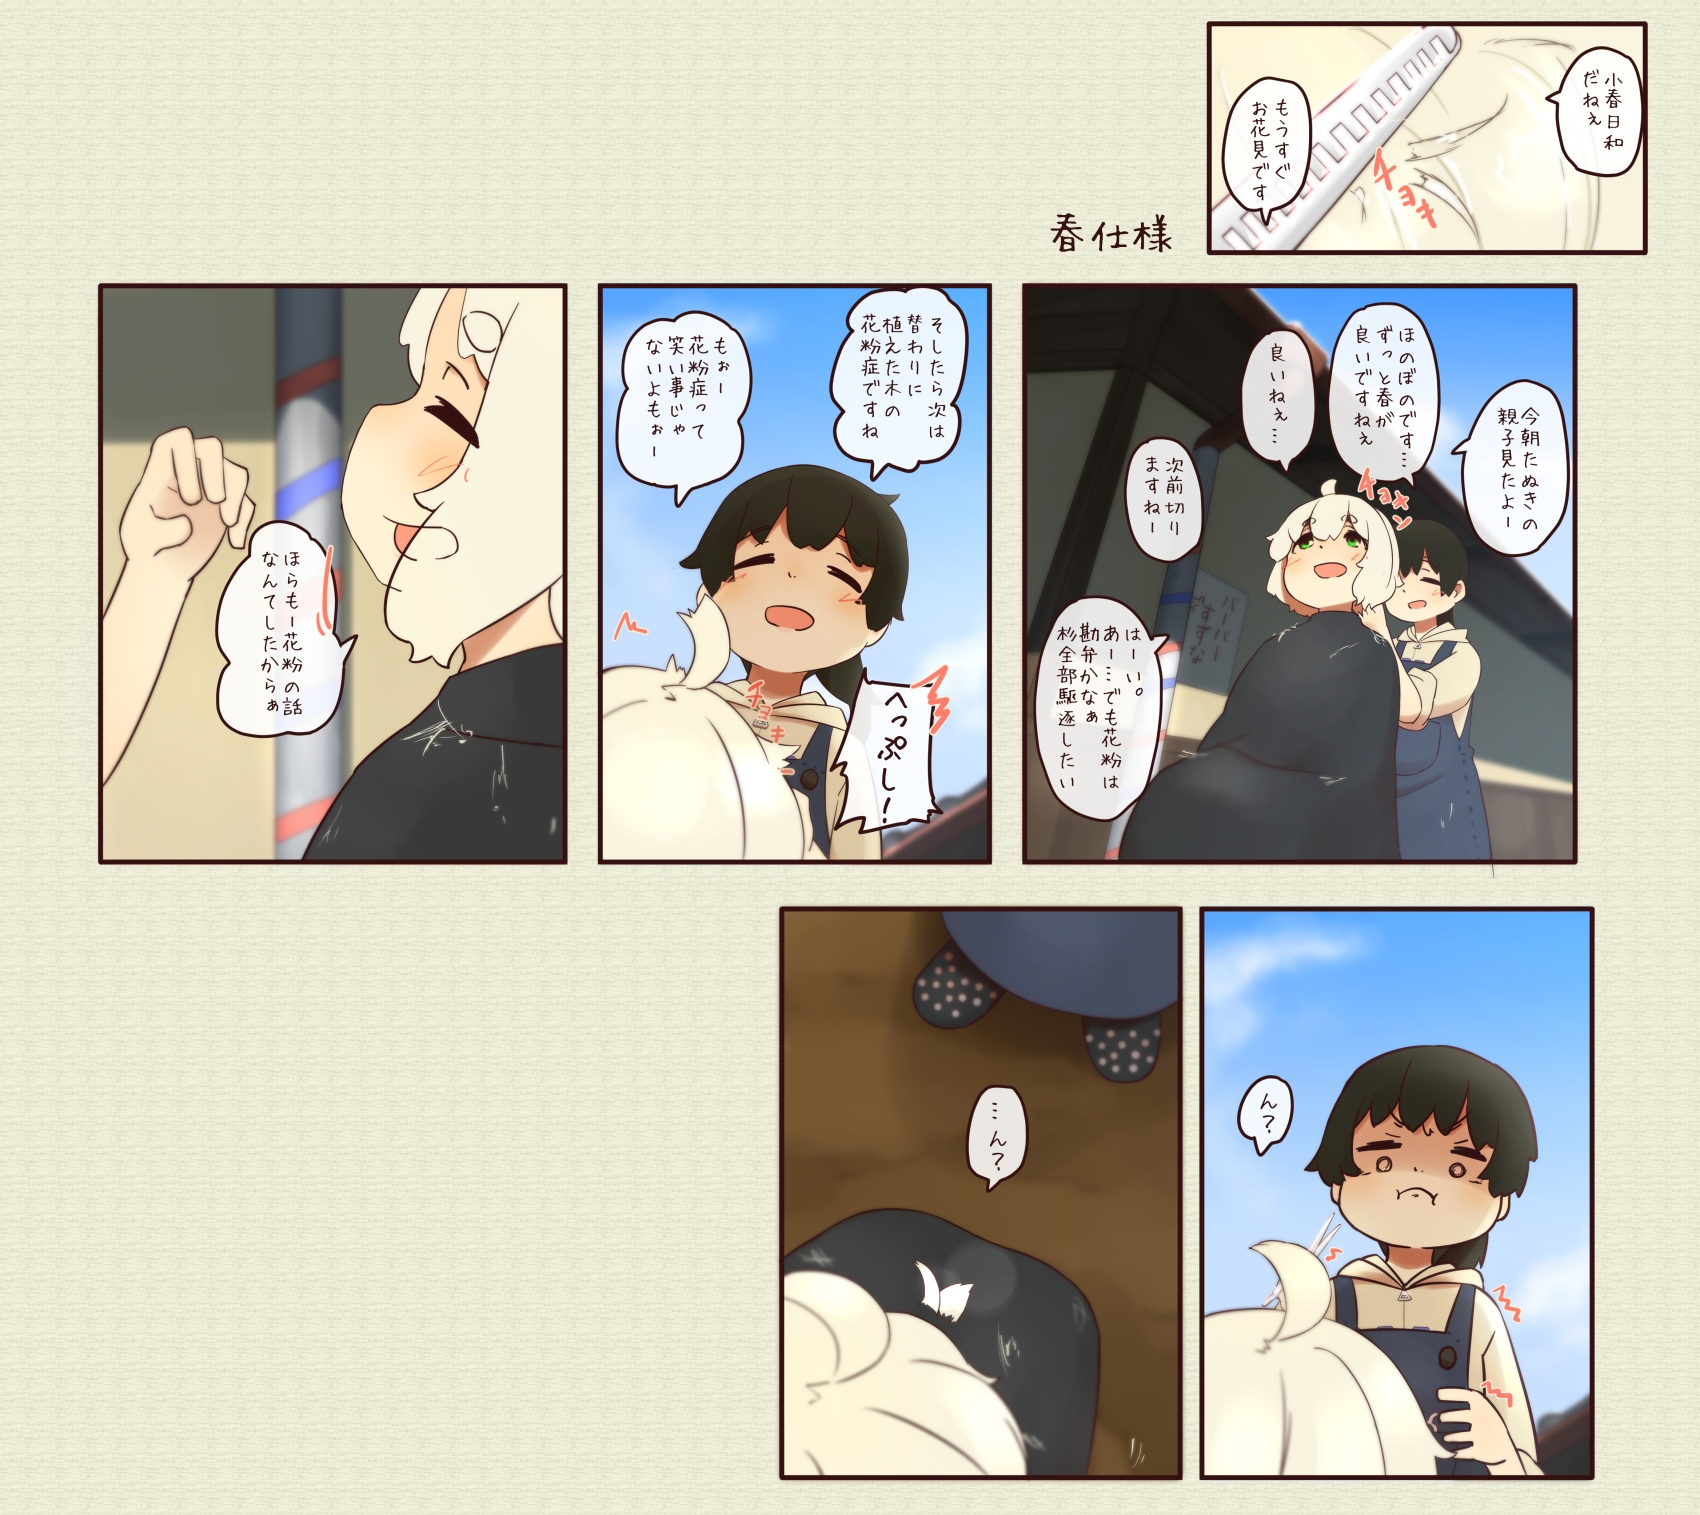
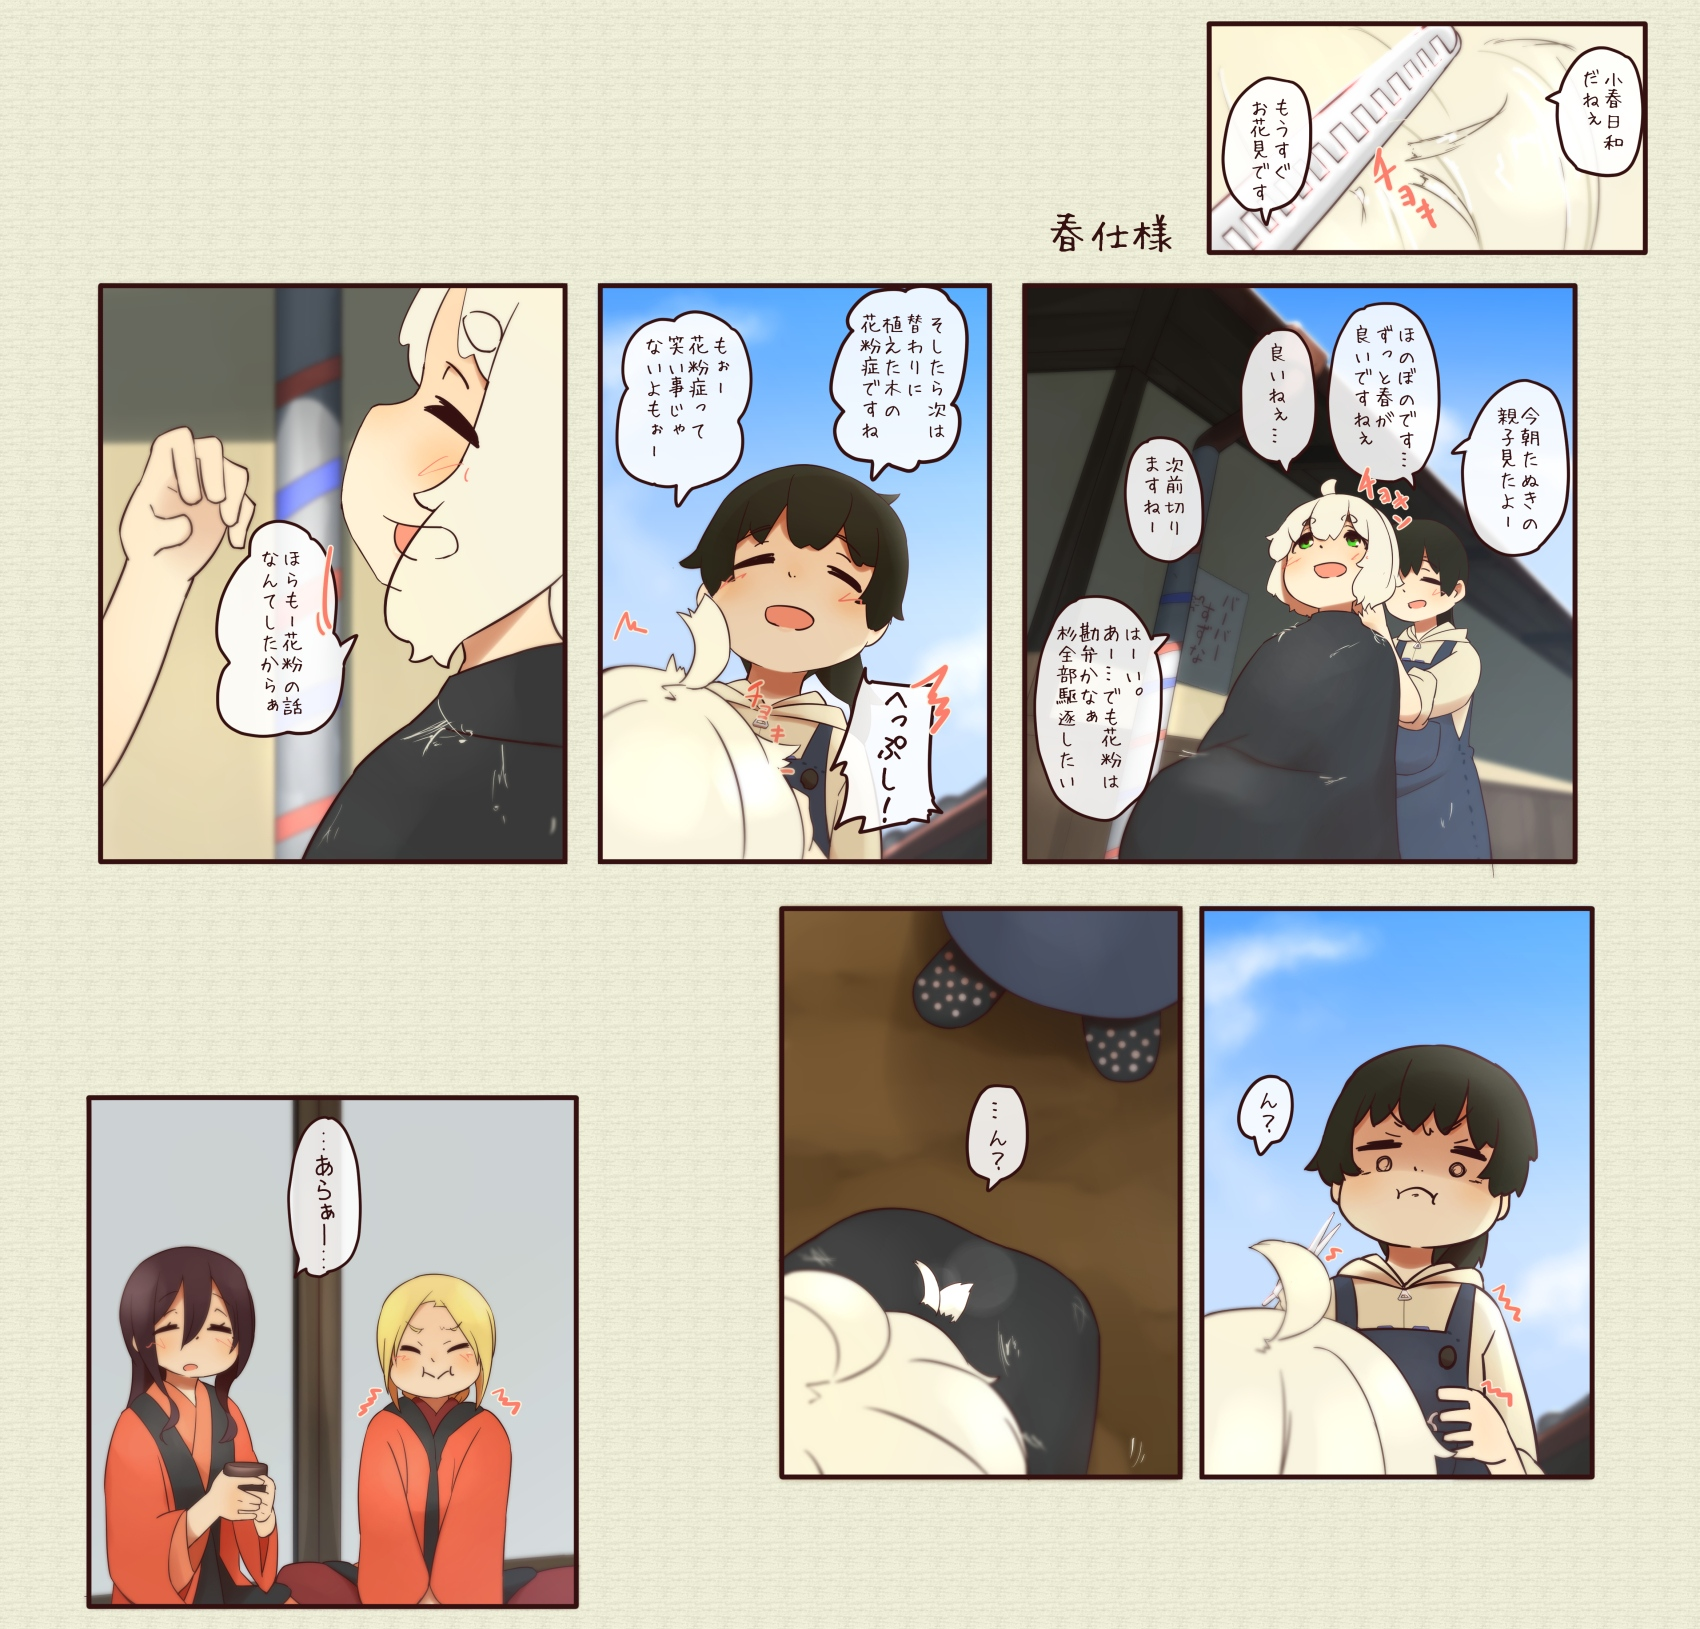
update: auto updated 4komaData by workflow

diff --git a/4komaData.js b/4komaData.js
@@ -233,5 +233,5 @@ pageData = [
 ,{"Title": "おに", "ImagesUrl": ["https://mo4koma.iranika.info/4koma/ja/232-1.jpg", "https://mo4koma.iranika.info/4koma/ja/232-2.jpg", "https://mo4koma.iranika.info/4koma/ja/232-3.jpg", "https://mo4koma.iranika.info/4koma/ja/sp.jpg"]}
 ,{"Title": "もうちょっと", "ImagesUrl": ["https://mo4koma.iranika.info/4koma/ja/233-1.jpg", "https://mo4koma.iranika.info/4koma/ja/233-2.jpg", "https://mo4koma.iranika.info/4koma/ja/sp.jpg"]}
 ,{"Title": "温泉旅行", "ImagesUrl": ["https://mo4koma.iranika.info/4koma/ja/234-1.jpg", "https://mo4koma.iranika.info/4koma/ja/234-2.jpg", "https://mo4koma.iranika.info/4koma/ja/sp.jpg"]}
-,{"Title": "春仕様", "ImagesUrl": ["https://mo4koma.iranika.info/4koma/ja/235-1.jpg", "https://mo4koma.iranika.info/4koma/ja/sp.jpg"]}
+,{"Title": "春仕様", "ImagesUrl": ["https://mo4koma.iranika.info/4koma/ja/235-1.jpg", "https://mo4koma.iranika.info/4koma/ja/235-2.jpg", "https://mo4koma.iranika.info/4koma/ja/sp.jpg"]}
 ]
